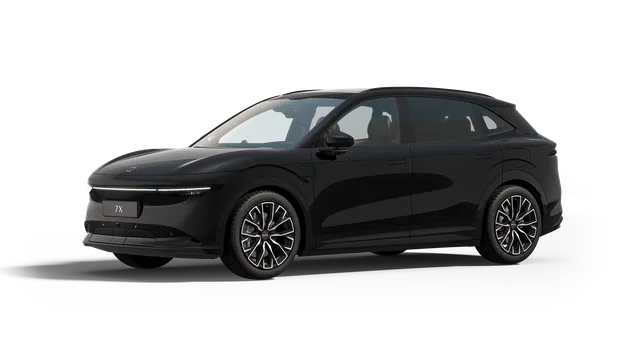
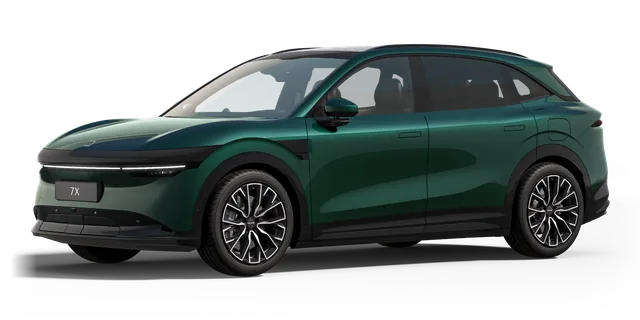
fix(media): 001 Flagship reusa foto Premium; 7X Premium em verde para diferenciar

diff --git a/src/utils/carImageManifest.ts b/src/utils/carImageManifest.ts
@@ -1928,55 +1928,29 @@ export const optimizedCarImages: Record<string, CarImageMetadata> = {
       }
     ]
   },
-  "/car-images/zeekr-001-flagship.jpg": {
-    "width": 2784,
-    "height": 1392,
-    "variants": [
-      {
-        "src": "/car-images/optimized/zeekr-001-flagship.jpg-320.webp",
-        "width": 320,
-        "height": 160
-      },
-      {
-        "src": "/car-images/optimized/zeekr-001-flagship.jpg-640.webp",
-        "width": 640,
-        "height": 320
-      },
-      {
-        "src": "/car-images/optimized/zeekr-001-flagship.jpg-960.webp",
-        "width": 960,
-        "height": 480
-      },
-      {
-        "src": "/car-images/optimized/zeekr-001-flagship.jpg-1280.webp",
-        "width": 1280,
-        "height": 640
-      }
-    ]
-  },
   "/car-images/zeekr-7x-premium.png": {
-    "width": 2780,
-    "height": 1564,
+    "width": 1704,
+    "height": 851,
     "variants": [
       {
         "src": "/car-images/optimized/zeekr-7x-premium.png-320.webp",
         "width": 320,
-        "height": 180
+        "height": 160
       },
       {
         "src": "/car-images/optimized/zeekr-7x-premium.png-640.webp",
         "width": 640,
-        "height": 360
+        "height": 320
       },
       {
         "src": "/car-images/optimized/zeekr-7x-premium.png-960.webp",
         "width": 960,
-        "height": 540
+        "height": 479
       },
       {
         "src": "/car-images/optimized/zeekr-7x-premium.png-1280.webp",
         "width": 1280,
-        "height": 720
+        "height": 639
       }
     ]
   },

diff --git a/src/constants.ts b/src/constants.ts
@@ -2616,7 +2616,7 @@ weightKg: 2340, trunkLiters: 616,
   {
     model: "001 Flagship", brand: "Zeekr", price: 542000, range: 426, cat: "Luxo",
     url: "https://www.zeekrlife.com/pt-br/models/001",
-    img: "/car-images/zeekr-001-flagship.jpg",
+    img: "/car-images/zeekr-001.webp",
     power: 544, torque: 70, traction: 'AWD', battery: 100,
     features: [
       "AWD dual motor 544 cv — 0–100 km/h em 3,8 s",

diff --git a/DEVLOG.md b/DEVLOG.md
@@ -3,11 +3,11 @@
 Notas técnicas selecionadas do produto público. Este documento não registra infraestrutura privada, dashboards administrativos, parceiros individuais, credenciais, dados pessoais ou runbooks operacionais.
 
 ## 06/10/2026 · Zeekr: 7X Premium, X Flagship e 001 Flagship (188 veículos)
-
 | Área | Mudança pública |
 |---|---|
 | Catálogo | Renomeação explícita: `Zeekr X`→`X Premium`, `7X`→`7X Flagship` (slugs antigos quebram, sem redirect; sitemap regenerado). Novos: 7X Premium (R$ 378.000, 421 cv RWD, 491 km PBEV, 100 kWh, 2340 kg), X Flagship (R$ 338.000, 428 cv AWD, 304 km, AC 22/DC 150, 1960 kg) e 001 Flagship (R$ 542.000, 544 cv AWD, 426 km, ar + 22" forjadas). Correções no X Premium: tração RWD, torque 35 (343 Nm, ficha) e preço 272→298 mil (página oficial). Sem selo Novo (lançamentos fora da janela de 3 meses). Fotos oficiais distintas por versão (datocms/zeekrlife). |
 | Verificação | Pins de teste e `priceHistory` renomeados, pipeline `--check` (80 fontes, 310 variantes), `tsc` limpo, build Vite (188 páginas), scanner de segredos e proveniência (966/1880) aprovados. |
+| Correção 07/10 | 001 Flagship passa a reutilizar a foto do Premium (`zeekr-001.webp`; configurador global com placa "X" descartado); 7X Premium troca o preto-gêmeo do Flagship pelo verde frente 3/4 da galeria oficial (diferenciação por cor). |
 
 ## 06/10/2026 · Tiggo 9 PHEV CAOA Chery (185 veículos)
 
